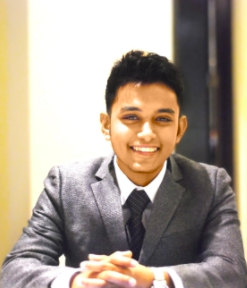
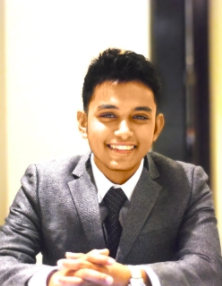
update members

diff --git a/hcieders.html b/hcieders.html
@@ -65,7 +65,7 @@
             <div class="card-profile">
               <div class="card-body">
                   <center>
-                <img src="./img/member/jeeeunkim.jpeg" style="height:300px; border-radius:2%; padding-bottom:10px">
+                <img src="./img/member/jeeeunkim.jpeg" class="member-img">
                       <h5 class="card-title"><a href="http://jeeeunkim.com/" style="color:black" target="_blank">Jeeeun Kim</a></h5>
                        <p class="card-text">Director ◇
                            Assistant Professor</p>
@@ -78,7 +78,7 @@
             <div class="card-profile">
               <div class="card-body">
                   <center>
-                <img src="./img/member/himanideshpande.JPG" style="height:300px; border-radius:2%; padding-bottom:10px">
+                <img src="./img/member/himanideshpande.JPG" class="member-img">
                       <h5 class="card-title"><a href="https://himanid.com/" style="color:black" target="_blank">Himani Deshpande</a></h5>
                       PhD Student
                       </center>
@@ -90,7 +90,7 @@
             <div class="card-profile">
               <div class="card-body">
                   <center>
-                <img src="./img/member/nahyunkwon.JPG" style="height:300px; border-radius:2%; padding-bottom:10px">
+                <img src="./img/member/nahyunkwon.JPG" class="member-img">
                       <h5 class="card-title"><a href="https://nahyunkwon.github.io/" style="color:black" target="_blank">Nahyun Kwon</a></h5>
                       PhD Student Student
                       </center>
@@ -102,7 +102,7 @@
           <div class="card-profile">
             <div class="card-body">
                 <center>
-              <img src="./img/member/abul.png" style="height:300px; border-radius:2%; padding-bottom:10px">
+              <img src="./img/member/abul.png" class="member-img">
                     <h5 class="card-title"><a href="http://www.abulalarabi.com/" style="color:black" target="_blank">Abul Al Arabi</a></h5>
                     PhD Student Student
                     </center>
@@ -114,7 +114,7 @@
         <div class="card-profile">
           <div class="card-body">
               <center>
-            <img src="./img/member/prajwalIyer.jpg" style="height:300px; border-radius:2%; padding-bottom:10px">
+            <img src="./img/member/prajwalIyer.jpg" class="member-img">
                   <h5 class="card-title"><a href="https://prajwaliyer.github.io/" style="color:black" target="_blank">Prajwal Iyer</a></h5>
                   Undergrad Student
                   </center>
@@ -126,8 +126,32 @@
       <div class="card-profile">
         <div class="card-body">
             <center>
-          <img src="./img/member/emorylu.JPG" style="height:300px; border-radius:2%; padding-bottom:10px">
+          <img src="./img/member/emorylu.JPG" class="member-img">
                 <h5 class="card-title"><a href="http://people.tamu.edu/~qianlu/" style="color:black" target="_blank">Emory Lu</a></h5>
+                Undergrad Student
+                </center>
+        </div>
+      </div>
+    </div>
+
+    <div class="col-sm-3 col-cus">
+          <div class="card-profile">
+            <div class="card-body">
+                <center>
+              <img src="./img/member/ZhengnanHuang.png" class="member-img">
+                    <h5 class="card-title"><a href="" style="color:black">Zhengnan Huang</a></h5>
+                    Undergrad Student
+                    </center>
+            </div>
+          </div>
+        </div>
+
+    <div class="col-sm-3 col-cus">
+      <div class="card-profile">
+        <div class="card-body">
+            <center>
+          <img src="./img/member/HarshaSiripurapu.JPG" class="member-img">
+                <h5 class="card-title"><a href="" style="color:black" target="_blank">Harsha Siripurapu</a></h5>
                 Undergrad Student
                 </center>
         </div>
@@ -154,7 +178,7 @@
             <div class="card-profile">
               <div class="card-body">
                   <center>
-                <img src="./img/member/ChenLiang.png" style="height:300px; border-radius:2%; padding-bottom:10px">
+                <img src="./img/member/ChenLiang.png" class="member-img">
                       <h5 class="card-title"><a href="" style="color:black">Chen Liang</a></h5>
                       MS Student <br/>
                       Now Ph.D. studetn at University of Michigan
@@ -167,7 +191,7 @@
             <div class="card-profile">
               <div class="card-body">
                   <center>
-                <img src="./img/member/elanieliang.png" style="height:300px; border-radius:2%; padding-bottom:10px">
+                <img src="./img/member/elanieliang.png" class="member-img">
                       <h5 class="card-title"><a href="" style="color:black">Elaine Yi-Lien Liang</a></h5>
                       MS Student <br/>
                       Now Human Factors Engineer at Nokia
@@ -180,25 +204,15 @@
             <div class="card-profile">
               <div class="card-body">
                   <center>
-                <img src="./img/member/rushhoelscher.JPG" style="height:300px; border-radius:2%; padding-bottom:10px">
+                <img src="./img/member/rushhoelscher.JPG" class="member-img">
                       <h5 class="card-title"><a href="" style="color:black">Rush Hoelscher</a></h5>
-                      Undergraduate Student
+                      Undergrad Student
                       </center>
               </div>
             </div>
           </div>
 
-          <div class="col-sm-3 col-cus">
-          <div class="card-profile">
-            <div class="card-body">
-                <center>
-              <img src="./img/member/ZhengnanHuang.png" style="height:300px; border-radius:2%; padding-bottom:10px">
-                    <h5 class="card-title"><a href="" style="color:black">Zhengnan Huang</a></h5>
-                    Undergraduate Student
-                    </center>
-            </div>
-          </div>
-        </div>
+
       </div>
   </div>
 </section>

diff --git a/css/default.css b/css/default.css
@@ -168,3 +168,10 @@ article .container-fluid#box {
     padding-right:20px;
     border-radius:10px;
 }
+
+.member-img{
+    height:300px;
+    border-radius:2%;
+    padding-bottom:10px;
+    max-width:221px;
+}
